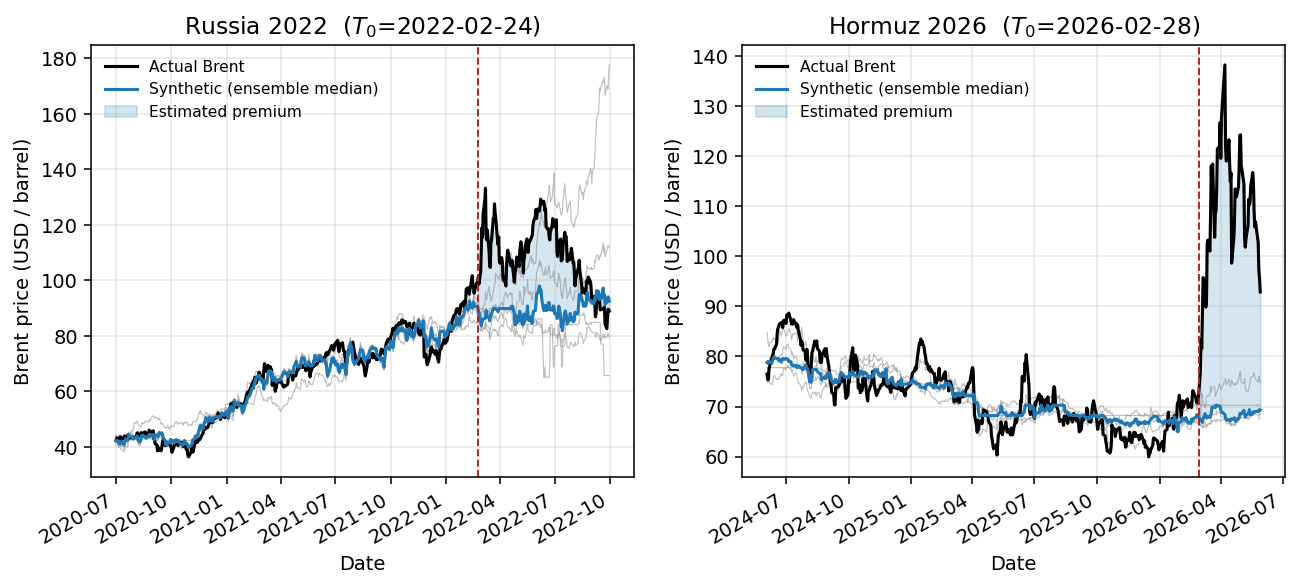
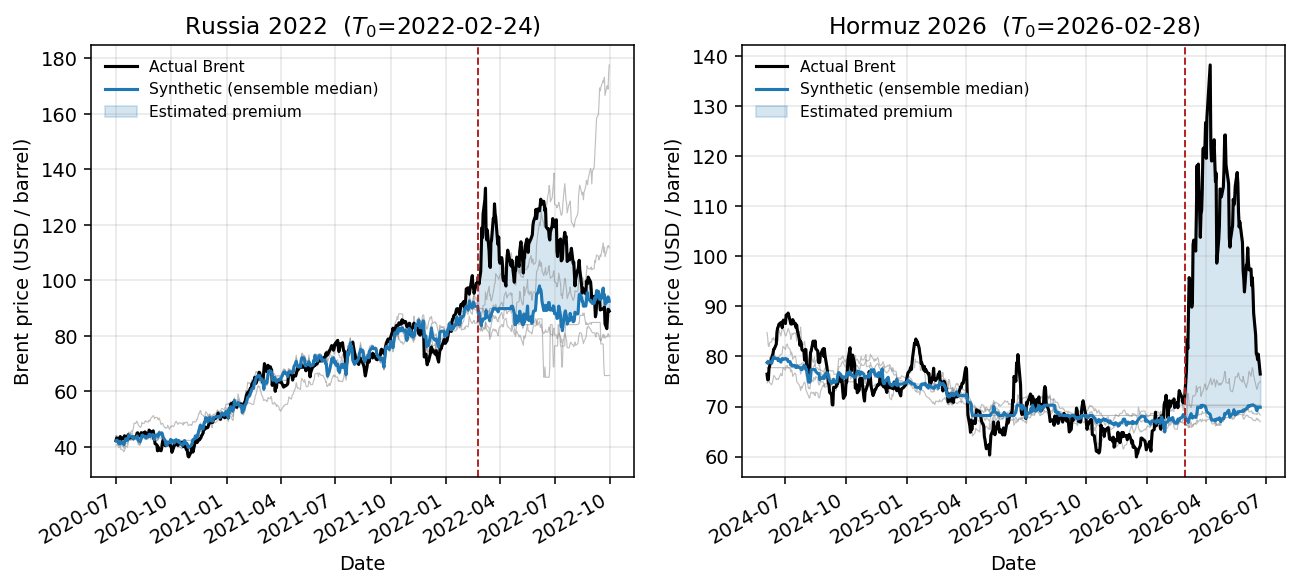
Update thesis to June-22 results
- Regenerate thesis figures from the June-22 pipeline (make_figures.py)
- Hormuz headline premium 55.9% -> 53.1% (IQR [48.3, 53.4]); update summary
  stats (77-obs post-window), placebo ratios/floor, LOO, cross-event, and
  naive tables accordingly; abstract/conclusion 56% -> 53%, dates to late June
- Russia numbers unchanged (window/data unchanged)

Changed region(s): [[0.5855, 0.1224, 0.9861, 0.7959], [0.5855, 0.8265, 0.9861, 0.9184]]

diff --git a/thesis/sections/results.tex b/thesis/sections/results.tex
@@ -42,9 +42,9 @@ for both events, and Figure~\ref{fig:paths} plots the observed and synthetic pat
 seven-month window (IQR \SIrange{10.9}{30.8}{\percent}), which implies a counterfactual
 mean of \$88.6/bbl against an actual \$108.5. This is consistent with the documented
 \$95$\to$\$130 move and its partial reversion by September. For \textbf{Hormuz 2026} the
-ensemble-median premium is \SI{55.9}{\percent} over the window to mid-June (IQR
-\SIrange{51.2}{56.6}{\percent}), with an actual post-window mean of \$106.9 against an
-implied counterfactual near \$68.6. The Hormuz band is far tighter than Russia's, about
+ensemble-median premium is \SI{53.1}{\percent} over the window to late June (IQR
+\SIrange{48.3}{53.4}{\percent}), with an actual post-window mean of \$105.1 against an
+implied counterfactual near \$68.7. The Hormuz band is far tighter than Russia's, about
 5 points against about 20, which reflects the calmer Hormuz pre-period.
 
 \begin{table}[h]
@@ -56,18 +56,18 @@ cross-model median, band $=$ IQR (Q25--Q75).}
 \small
 \begin{tabular}{@{}lrr@{\hskip 1.6em}rr@{}}
 \toprule
-& \multicolumn{2}{c}{Russia 2022 (7 mo)} & \multicolumn{2}{c}{Hormuz 2026 ($\sim$3.5 mo)}\\
+& \multicolumn{2}{c}{Russia 2022 (7 mo)} & \multicolumn{2}{c}{Hormuz 2026 ($\sim$3.8 mo)}\\
 \cmidrule(lr){2-3}\cmidrule(lr){4-5}
 Model & Raw & Adj. & Raw & Adj. \\
 \midrule
-Convex SCM     & 33.6 & 28.4 & 55.9 & 57.3 \\
-Augmented SCM  & 10.9 & 10.6 & 56.8 & 57.1 \\
-Elastic net    & 22.0 & 21.2 & 56.6 & 57.4 \\
-XGBoost        & 30.8 & 28.9 & 51.2 & 52.7 \\
-Bayesian ridge & $-9.0$ & $-9.1$ & 43.0 & 43.0 \\
+Convex SCM     & 33.6 & 28.4 & 53.1 & 54.8 \\
+Augmented SCM  & 10.9 & 10.6 & 53.7 & 54.2 \\
+Elastic net    & 22.0 & 21.2 & 53.4 & 54.4 \\
+XGBoost        & 30.8 & 28.9 & 48.3 & 50.2 \\
+Bayesian ridge & $-9.0$ & $-9.1$ & 40.4 & 40.4 \\
 \midrule
-\textbf{Ensemble median} & \textbf{22.0} & \textbf{21.2} & \textbf{55.9} & \textbf{57.1} \\
-\textbf{IQR} & \textbf{[10.9, 30.8]} & n/a & \textbf{[51.2, 56.6]} & n/a \\
+\textbf{Ensemble median} & \textbf{22.0} & \textbf{21.2} & \textbf{53.1} & \textbf{54.2} \\
+\textbf{IQR} & \textbf{[10.9, 30.8]} & n/a & \textbf{[48.3, 53.4]} & n/a \\
 \bottomrule
 \end{tabular}
 \end{table}
@@ -188,8 +188,8 @@ Appendix~\ref{app:donorweights}.
 Table~\ref{tab:placebo} and Figure~\ref{fig:placebo} report the in-space placebo. For
 \textbf{Hormuz} the result is as strong as the test allows. Brent ranks first among all
 placebo units under every model and both donor pools, with a post/pre RMSPE ratio between
-6.9 and 10.2 that exceeds every donor's, so the permutation $p$-value sits at the
-attainable floor, 0.050 in the 19-donor pool and 0.030 in the 32-donor pool. For
+6.7 and 9.9 that exceeds every donor's, so the permutation $p$-value sits at the
+attainable floor, 0.050 in the 19-donor pool and 0.029 in the 32-donor pool. For
 \textbf{Russia} no model reaches the floor, and XGBoost comes closest at $p=0.20$. The
 reason is mechanical. The volatile 2020--22 pre-period gives the donors large pre-period
 RMSPE as well, which widens the placebo distribution and lowers the test's power. This is a
@@ -207,18 +207,18 @@ independently below.
 \toprule
 Event & Model & $p$ (19-donor) & $p$ (32-donor) & Brent ratio \\
 \midrule
-Russia & best of five (XGBoost) & 0.20 & 0.15 & 7.75 \\
+Russia & best of five (XGBoost) & 0.20 & 0.14 & 7.75 \\
 \addlinespace
-Hormuz & Convex SCM     & \textbf{0.050} & \textbf{0.029} & 6.93 \\
-Hormuz & Augmented SCM  & \textbf{0.050} & \textbf{0.029} & 8.45 \\
-Hormuz & Elastic net    & \textbf{0.050} & \textbf{0.029} & 8.53 \\
-Hormuz & XGBoost        & \textbf{0.050} & \textbf{0.029} & 10.19 \\
-Hormuz & Bayesian ridge & \textbf{0.050} & \textbf{0.029} & 10.24 \\
+Hormuz & Convex SCM     & \textbf{0.050} & \textbf{0.029} & 6.73 \\
+Hormuz & Augmented SCM  & \textbf{0.050} & \textbf{0.029} & 8.20 \\
+Hormuz & Elastic net    & \textbf{0.050} & \textbf{0.029} & 8.27 \\
+Hormuz & XGBoost        & \textbf{0.050} & \textbf{0.029} & 9.89 \\
+Hormuz & Bayesian ridge & \textbf{0.050} & \textbf{0.029} & 9.92 \\
 \bottomrule
 \end{tabular}
 \begin{tablenotes}[flushleft]
 \footnotesize
-\item \textit{Notes.} Floor $=1/(N{+}1)$: 0.050 (19-donor pool), 0.030 (32-donor pool).
+\item \textit{Notes.} Floor $=1/(N{+}1)$: 0.050 (19-donor pool), 0.029 (32-donor pool).
 \end{tablenotes}
 \end{threeparttable}
 \end{table}
@@ -253,7 +253,7 @@ profiles. Russia declines with horizon, from about 31\% to 22\%, which is the si
 delayed contamination as second-round war channels switch on through 2022 and pull the
 synthetic up. The full-window figure is therefore conservative, and the
 least-contaminated one-month estimate is about 31\%. Hormuz rises and then eases, from
-about 46\% to 59\% and back to 56\%, which is the opposite of attenuation. The chokepoint
+about 46\% to 59\% and back to 53\%, which is the opposite of attenuation. The chokepoint
 premium builds in and holds, and the slight easing at the full horizon reflects Brent's
 partial mid-June pullback that appears once we extend the window to the latest data. The
 same diagnostic declining for Russia and rising for Hormuz shows that it is not a
@@ -274,8 +274,8 @@ the premium builds in and holds.
 \end{figure}
 
 \paragraph{Leave-one-donor-out.} Dropping each weighted donor in turn leaves the focal
-Hormuz estimate tight around its baseline across all models (convex 51.2 to 59.3, ASCM
-54.6 to 60.5, elastic 55.2 to 62.2, XGBoost 51.6 to 57.7\%), so no single donor drives the
+Hormuz estimate tight around its baseline across all models (convex 48.3 to 56.4, ASCM
+51.6 to 57.4, elastic 52.0 to 58.8, XGBoost 48.8 to 54.8\%), so no single donor drives the
 result. For Russia we report the ensemble-median range rather than every model, because
 Russia's wider spread comes from the simplex models' reliance on a few soft-commodity
 donors, the same concentration that drives the contamination finding below. Read that way,
@@ -285,7 +285,7 @@ donor-quality issue rather than a separate concern.
 \paragraph{Cross-event weight stability.} As an exploratory probe rather than a validation
 test, we apply the weights fitted on one event to the other event's window and read how far
 the pre-period fit degrades. The transfer is weak, and that weakness is informative. Only
-convex SCM transfers to a clearly positive Hormuz premium, at 25.3\% with a degraded but
+convex SCM transfers to a clearly positive Hormuz premium, at 23.4\% with a degraded but
 non-pathological pre-fit, while the other models move toward or below zero with pre-fit
 errors many times their independent level (Table~\ref{tab:transfer}). The reason is that
 the two pre-periods are different factor regimes. Russia's 2020--22 pre-period is shaped by
@@ -308,11 +308,11 @@ separately is the correct choice, not as confirmation of the level.
 \toprule
 Model & Indep.\ gap (\%) & Transf.\ gap (\%) & Indep.\ RMSPE & Transf.\ RMSPE \\
 \midrule
-Convex SCM     & 55.9 & 25.3   & 0.066 & 0.336 \\
-Augmented SCM  & 56.8 & $-0.8$  & 0.066 & 0.467 \\
-Elastic net    & 56.6 & $-68.6$ & 0.054 & 1.513 \\
-XGBoost        & 51.2 & $-44.1$ & 0.053 & 0.928 \\
-Bayesian ridge & 43.0 & $-100.0$ & 0.037 & 18.567 \\
+Convex SCM     & 53.1 & 23.4   & 0.066 & 0.336 \\
+Augmented SCM  & 53.7 & $-2.5$  & 0.066 & 0.467 \\
+Elastic net    & 53.4 & $-69.2$ & 0.054 & 1.513 \\
+XGBoost        & 48.3 & $-45.2$ & 0.053 & 0.928 \\
+Bayesian ridge & 40.4 & $-100.0$ & 0.037 & 18.567 \\
 \bottomrule
 \end{tabular}
 \begin{tablenotes}[flushleft]
@@ -330,7 +330,7 @@ donor machinery extracts something that extrapolating Brent's own series cannot.
 and most telling, the naive bias flips sign across the two events purely because the
 pre-window trend sign differs. The linear trend extrapolates Russia's recovery rally upward
 and returns an implausible negative full-window gap of about $-4\%$, yet the same method
-extrapolates Hormuz's mild downtrend and inflates the gap to about 71\%. A counterfactual
+extrapolates Hormuz's mild downtrend and inflates the gap to about 68\%. A counterfactual
 built from one series alone is therefore regime-fragile in a way the donor-based SCM is not.
 Third, for Russia the SCM and the trend extrapolation sit on opposite sides of the truth.
 The SCM leans high, as the contamination analysis below confirms, and the trend
@@ -349,7 +349,7 @@ thus corroborate each other, one from a donor-free direction and one from a dono
 Event & SCM median & RW flat & RW drift & Lin.\ trend \\
 \midrule
 Russia & 22.0 & 8.7  & $-6.9$ & $-4.2$ \\
-Hormuz & 55.9 & 48.9 & 49.8   & 70.9   \\
+Hormuz & 53.1 & 46.1 & 47.0   & 67.9   \\
 \bottomrule
 \end{tabular}
 \begin{tablenotes}[flushleft]
@@ -381,8 +381,8 @@ and peak window, where the \$95$\to$\$130 move is recovered, and not on the atte
 full-window average.
 
 \subsection{Interpretation}
-The 2026 Hormuz chokepoint premium is roughly \SI{56}{\percent} of Brent's no-event level
-over the first three and a half months, and the estimate is stable. It holds across all
+The 2026 Hormuz chokepoint premium is roughly \SI{53}{\percent} of Brent's no-event level
+over the first nearly four months, and the estimate is stable. It holds across all
 five estimators and clears the validation battery of Section~\ref{sec:methods}, with the
 in-space placebo reaching its attainable floor as the strongest single result. The
 contamination analysis adds a useful direction to this stability. If anything, the true

diff --git a/thesis/sections/introduction.tex b/thesis/sections/introduction.tex
@@ -36,20 +36,19 @@ of Brent crude over a policy-relevant post-event window?}
 
 We deliberately target the \emph{total} causal effect rather than any single
 transmission channel, and we estimate it as a \emph{path} over the post-event window
-rather than a single number. The applications drive this choice. Emergency
+rather than a single number. The applications drive this choice for several reasons. First, emergency
 strategic-reserve releases are sized against an implied price displacement (the IEA
 coordinated the drawdown of some 180~million barrels after the 2022 invasion of Ukraine
-\citep{iea2022release}). The monetary-policy decision to look through an oil shock or to
-tighten turns on its size and persistence. Fiscal stabilisation in subsidising oil
-importers scales with the move. And sovereign hedging programmes price disruption
+\citep{iea2022release}); second, the monetary-policy decision to look through an oil shock or to
+tighten turns on its size and persistence; third, fiscal stabilisation in subsidising oil
+importers scales with the move; and fourth, sovereign hedging programmes price disruption
 scenarios against exactly such magnitudes (Mexico's annual ``Hacienda hedge'' is the
-largest such programme in the world \citep{jfi2023mexico}). Each lever acts on the trajectory of the effect, not on a peak-day figure.
-The object we need is therefore the average gap between observed Brent and the price
+largest such programme in the world \citep{jfi2023mexico}). Each lever acts on the trajectory of the effect, not on a peak-day figure, then the object we need is therefore the average gap between observed Brent and the price
 that would have prevailed absent the disruption, traced over the whole window.
 Recovering that counterfactual path, which has no directly observable analogue, is the
 methodological core of this paper.
 
-Standard observational designs cannot deliver it. Brent is a single, globally traded
+Standard observational designs cannot estimate properly the causal effect. Brent is a single, globally traded
 benchmark, which rules out difference-in-differences (no panel of comparable treated
 and control units), regression discontinuity (no running variable around a cutoff),
 and instrumental variables (no credible instrument for a one-off geopolitical event).
@@ -68,15 +67,15 @@ VARs \citep{kilian2009,baumeisterhamilton2019} decompose prices into supply, dem
 and inventory shocks but produce no counterfactual path and rely on identification
 restrictions with no settled precedent for a chokepoint event. And institutional
 scenario models propagate an assumed barrel shortfall through a supply--demand model,
-so their counterfactual is imposed rather than read from observed prices. We see these
-as complements rather than competitors. Our cross-asset, data-driven estimate and a
+so their counterfactual is imposed rather than read from observed prices. Given this situation, we see these
+as complements rather than competitors to our methodology. Our cross-asset, data-driven estimate and a
 structural scenario estimate answer different questions, the price gap implied by
 observed co-movement versus the price implied by an assumed shortfall, so their
 agreement is itself informative, and in practice the two can be used side by side.
 
 Methodologically, our closest neighbour is the SCM-on-price design of
 \citet{becker2021}. That work studies a regulated retail-fuel market with
-cross-country donor units. Neither is available here, since Brent is a global crude
+cross-country donor units; however, neither is available here, since Brent is a global crude
 benchmark and no untreated country or market can serve as a donor. We therefore replace
 geographic donors with cross-asset donors, including metals, agriculturals, equities,
 foreign exchange, rates, and volatility, and apply the design under an exogenous
@@ -89,20 +88,19 @@ pre-window, model class, and regularisation. We therefore benchmark the design o
 nearest comparable historical oil-supply shock, the 2022 Russian invasion of Ukraine
 (Brent \$95$\to$\$130 within two weeks \citep{eia_brent}), and check that the same machinery recovers
 that documented magnitude before estimating the Hormuz effect afresh on its own
-pre-window. We do not transfer the Russia fit to Hormuz. The two events sit in very
-different market regimes, and we estimate each one independently. Because both are fit
+pre-window. We do not transfer the Russia fit to Hormuz; instead of this, the two events sit in very
+different market regimes, and we estimate each one independently. What we try to find is a common pattern: if both are fit
 on a common 19-series donor pool, we can additionally compare the donor weights across
 regimes as a check on the stability of the factor structure SCM relies on.
 
 To prevent any single modelling choice from driving the result, the synthetic is formed
 as the median of an ensemble of five estimators with different inductive biases: convex
-SCM, augmented SCM, elastic net, gradient-boosted trees, and Bayesian ridge. Fitting a
-synthetic that tracks pre-event Brent closely is the easy part. The substantive work of
+SCM, augmented SCM, elastic net, gradient-boosted trees, and Bayesian ridge. The substantive work of
 this paper is the validation that challenges the donor pool and the no-interference
 assumption it rests on, namely placebo-based inference, leave-one-donor-out checks,
 structural-break tests, a signed contamination-bias analysis, and a comparison against
 na\"ive univariate counterfactuals. Our contribution is thus twofold: a data-driven
-Brent-price ATT for the Hormuz disruption that complements existing structural
+Brent-price average treatment effect on the treated (ATT) for the Hormuz disruption that complements structural
 estimates, and a transparent template for validating cross-asset synthetic control
 under a single-unit geopolitical treatment.
 

diff --git a/thesis/sections/related_literature.tex b/thesis/sections/related_literature.tex
@@ -35,21 +35,24 @@ Despite this methodological maturity, SCM has rarely been applied to a daily mar
 price. Most peer-reviewed applications estimate effects on \emph{non-price} aggregates
 such as GDP, trade, and employment, including under discrete geopolitical shocks.
 \citet{gharehgozli2017} estimates the GDP cost of sanctions on Iran and
-\citet{mancini2024} the trade effect of the 2022 Russia--Ukraine war. The closest
+\citet{mancini2024} the trade effect of the 2022 Russia--Ukraine war. 
+
+The closest
 mechanical precedent to a price application is \citet{becker2021}, who apply SCM to
-Austrian retail fuel prices with other European countries as donors. That design differs
+Austrian retail fuel prices with other European countries as donors. However, that design differs
 from ours in three ways that matter, as its treatment is an endogenous regulation rather
 than an exogenous shock, its outcome an administered retail price rather than a traded
-benchmark, and its donors cross-country rather than cross-asset. \citet{juarez2024} use
-an oil-price shock as the treatment but on regional GDP, not on a price. The
+benchmark, and its donors cross-country rather than cross-asset. Also, \citet{juarez2024} use
+an oil-price shock as the treatment but on regional GDP, not on a price. 
+
+The
 intersection we occupy, which is SCM on a crude-benchmark \emph{price} under an exogenous
 \emph{geopolitical} disruption with cross-asset donors, has no direct precedent, and
-that is the gap this thesis addresses. Because the Hormuz event is recent, the only
-existing analysis is institutional \citep{kiel2026,oies2026,worldbank2026,iea2026,
-dallasfed2026}. These share one structure, namely to assume a barrels-per-day shortfall,
+that is the gap this thesis addresses. In terms of existing analysis, because the Hormuz event is recent, the only
+existing approach until now is institutional \citep{kiel2026,oies2026,worldbank2026,iea2026,
+dallasfed2026}; they share the same structure, assuming a barrels-per-day shortfall,
 propagate it through a structural model, and output a price path, and none applies
-synthetic control to the observed price. They form the comparison set against which we
-position, and complement, our estimate.
+synthetic control to the observed price.
 
 \subsection{Oil prices and geopolitical risk: the incumbent methods}
 The methods conventionally used for oil-price effects answer narrower or different
@@ -57,8 +60,10 @@ questions than ours. The dominant approach is the structural VAR with identified
 demand, and inventory shocks \citep{kilian2009,baumeisterhamilton2019}, with
 \citet{hamilton2009} the narrative anchor for 2007--08. These decompose price changes
 into structural components but yield no counterfactual path and require identification
-restrictions for which a chokepoint event offers no standard precedent. A natural
-alternative would regress oil prices on the Geopolitical Risk index of
+restrictions for which a chokepoint event offers no standard precedent. 
+
+A natural
+alternative method would regress oil prices on the Geopolitical Risk index of
 \citet{caldara2022}, but this recovers the \emph{average} response to a unit of
 geopolitical risk pooled across many events, a different object from the effect of one
 specific disruption, and the index spikes endogenously to the very event we study, so it
@@ -68,19 +73,23 @@ multi-month path policy requires.
 
 \subsection{Inference with one treated unit and a short post-period}
 Our setting makes inference non-standard, and the recent literature counsels restraint
-in two places. The first is inference itself. Permutation and placebo tests
+in two places. The first is inference itself: permutation and placebo tests
 \citep{abadie2010,abadie2015} are the field standard, with validity resting on an
 approximate-symmetry assumption \citep{canay2017}. \citet{hahnshi2017} show that for
 convex SCM this effectively requires Gaussian errors, which bounds how far placebo
 $p$-values can be pushed for our nonlinear ensemble members, and \citet{chenyan2023}
-formalise the in-time placebo into a mixed test with a permutation $p$-value. The second
+formalise the in-time placebo into a mixed test with a permutation $p$-value. 
+
+The second
 is pretesting. \citet{roth2022} shows that pre-trend tests have low power at applied
 sample sizes and can manufacture false confidence, and \citet{rambachanroth2023} propose
 bounding rather than testing such violations, so we accordingly adopt a
 report-and-interpret stance toward pre-period diagnostics rather than imposing pass/fail
-thresholds. Finally, the value of a donor depends on how reliably it tracks the common
+thresholds. 
+
+In our case, the value of a donor depends on how reliably it tracks the common
 factor. A literature on matching reliability before differencing shows that a good
-pre-period fit can \emph{mask} rather than remove contamination, the logic we use to
+pre-period fit can \emph{mask} rather than remove contamination, and this is the logic we use to
 split donors by pre-window factor $R^2$ when signing the contamination bias
 (Section~\ref{sec:results}). Multiple testing across donors is controlled by
 Benjamini--Hochberg \citep{benjaminihochberg1995}.

diff --git a/thesis/sections/conceptual_framework.tex b/thesis/sections/conceptual_framework.tex
@@ -3,11 +3,12 @@
 % ===================================================================
 This section sets out the data-generating process we assume for Brent and derives the
 estimand and identifying assumptions from it. The factor model in
-Section~\ref{sec:theory}.1 is the organising device. It makes donor selection an economic
-exercise, renders each identifying assumption transparent, and gives the contamination
+Section~\ref{sec:theory}.1 is the organising device, treating donor selection an economic
+exercise, rendering each identifying assumption transparent, and giving the contamination
 bias an explicit sign. It also exposes the residual model uncertainty that motivates the
 ensemble estimator, whose construction we defer to the methodology
 (Section~\ref{sec:methods}).
+
 \subsection{A factor model of Brent}
 We decompose log Brent into a component spanned by global macro-financial factors common
 to many assets and an oil-specific component:
@@ -22,10 +23,12 @@ industrial cycle, the US dollar, real interest rates, global risk appetite, and 
 demand, each proxied by non-oil assets. The oil-specific term $o_t$ is the object of
 interest, the supply and chokepoint component a Hormuz disruption shifts. Each donor $j$
 admits its own factor representation $X_{jt}=\gamma_j'F_t+u_{jt}$ with, by construction,
-\emph{zero loading on} $o_t$. A clean donor is exposed to the same global factors as
+\emph{zero loading on} $o_t$, so a clean donor is exposed to the same global factors as
 Brent but is not physically routed through oil supply. A synthetic control is then a
 weighted donor basket $\hat p_t=\sum_j w_j X_{jt}$, and the logic of the method follows
-directly from \eqref{eq:factor}. If the weights reproduce Brent's factor loadings,
+directly from \eqref{eq:factor}. 
+
+If the weights reproduce Brent's factor loadings,
 $\sum_j w_j\gamma_j\approx\lambda$, the basket tracks Brent through the pre-window, where
 $o_t$ is small and stable. When a chokepoint shock fires, $o_t$ jumps for Brent but not
 for the basket, the two decouple, and that decoupling \emph{is} the estimated premium.

diff --git a/thesis/thesis_nd.tex b/thesis/thesis_nd.tex
@@ -47,8 +47,8 @@ method} (SCM), building a price path from a pool of 19 macro-financial donor ser
 Brent's exposure to common global factors while staying off the oil-supply causal path. To
 keep the result from hinging on any single modelling choice, the synthetic is formed as the
 median of an ensemble of five estimators with different inductive biases. We benchmark the framework using the Russian invasion of Ukraine on 24 February 2022, which represents the closest comparable historical oil supply shock. We then apply the framework to estimate the effects of a disruption in the Strait of Hormuz. Over the post-event window to
-mid-June 2026 we find an average Brent premium of roughly \SI{56}{\percent} (ensemble
-median; interquartile range \SIrange{51}{57}{\percent}), an estimate that is robust to placebo-based inference and a range of robustness and contamination checks. We frame the
+late June 2026 we find an average Brent premium of roughly \SI{53}{\percent} (ensemble
+median; interquartile range \SIrange{48}{53}{\percent}), an estimate that is robust to placebo-based inference and a range of robustness and contamination checks. We frame the
 estimate as a reduced-form, data-driven complement to the structural scenario estimates
 produced by energy institutions, and discuss its use as an input to strategic-reserve,
 monetary, and fiscal decisions.

diff --git a/thesis/sections/data_and_methodology.tex b/thesis/sections/data_and_methodology.tex
@@ -28,9 +28,9 @@ factors, and volatility the risk-appetite factor, so the candidate set covers al
 drivers before any audit narrows it. The panel is updated incrementally so it keeps pace
 with new data. Table~\ref{tab:sources} summarises the sources. All are public and
 redistributable, and the panel is rebuilt from source on each run so the analysis is
-reproducible against the latest available data (here, through 15~June~2026 for Brent,
+reproducible against the latest available data (here, through 22~June~2026 for Brent,
 the binding constraint given the EIA's roughly one-week publication lag, and
-23~June~2026 for the donors).
+26~June~2026 for the donors).
 
 \begin{table}[h]
 \centering
@@ -128,9 +128,9 @@ Event & Segment & $n$ (days) & Mean & SD & Min & Max \\
  & Post-window & 151 & 108.54 & 11.37 & 82.55 & 133.18 \\
 \addlinespace
 \multirow{3}{*}{Hormuz 2026}
- & Full sample & 515 & 76.95 & 14.30 & 59.93 & 138.21 \\
+ & Full sample & 520 & 76.98 & 14.23 & 59.93 & 138.21 \\
  & Pre-window  & 443 & 72.08 & 6.58 & 59.93 & 88.66 \\
- & Post-window & 72  & 106.92 & 12.31 & 77.24 & 138.21 \\
+ & Post-window & 77  & 105.14 & 13.72 & 76.49 & 138.21 \\
 \bottomrule
 \end{tabular}
 \begin{tablenotes}[flushleft]

diff --git a/thesis/sections/conclusion.tex b/thesis/sections/conclusion.tex
@@ -3,8 +3,8 @@
 % ===================================================================
 We estimated the Brent-price effect of the 2026 Strait of Hormuz disruption by building a
 counterfactual with an ensemble synthetic control and benchmarking the design against the
-documented Russia 2022 shock. Over the window to mid-June 2026 the ensemble-median premium
-is roughly \SI{56}{\percent} of Brent's no-event level (IQR 51 to 57\%), large and positive
+documented Russia 2022 shock. Over the window to late June 2026 the ensemble-median premium
+is roughly \SI{53}{\percent} of Brent's no-event level (IQR 48 to 53\%), large and positive
 under every estimator. The estimate clears the validation battery. Brent ranks first among
 all units in the in-space placebo at the attainable floor, the leave-one-out check stays
 tight, the contamination-bias sign points conservative, and the synthetic beats the naive
